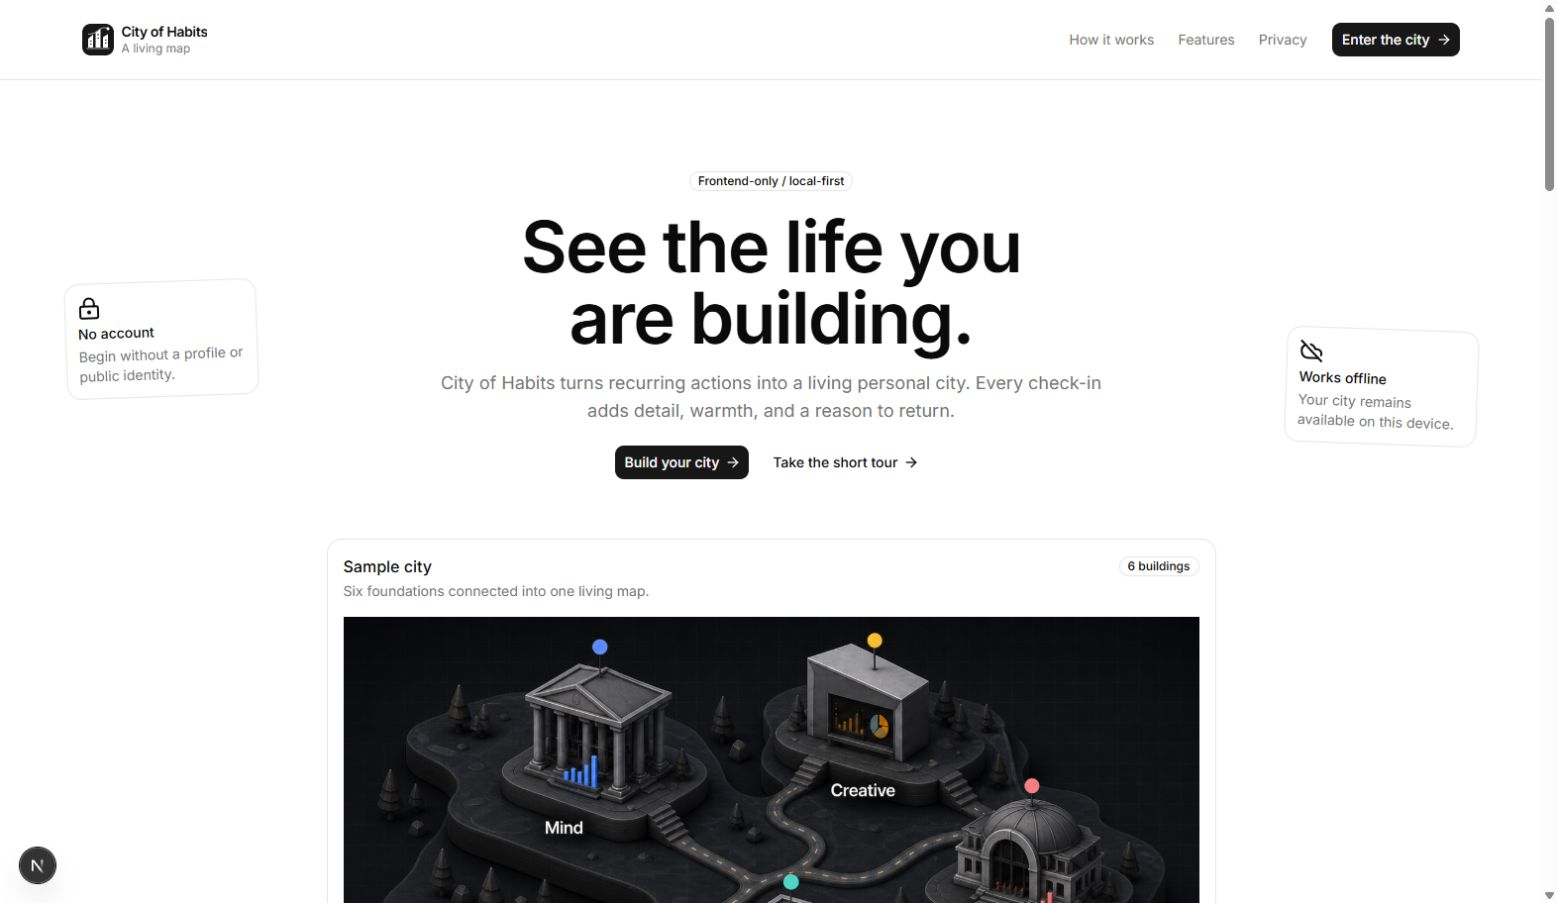
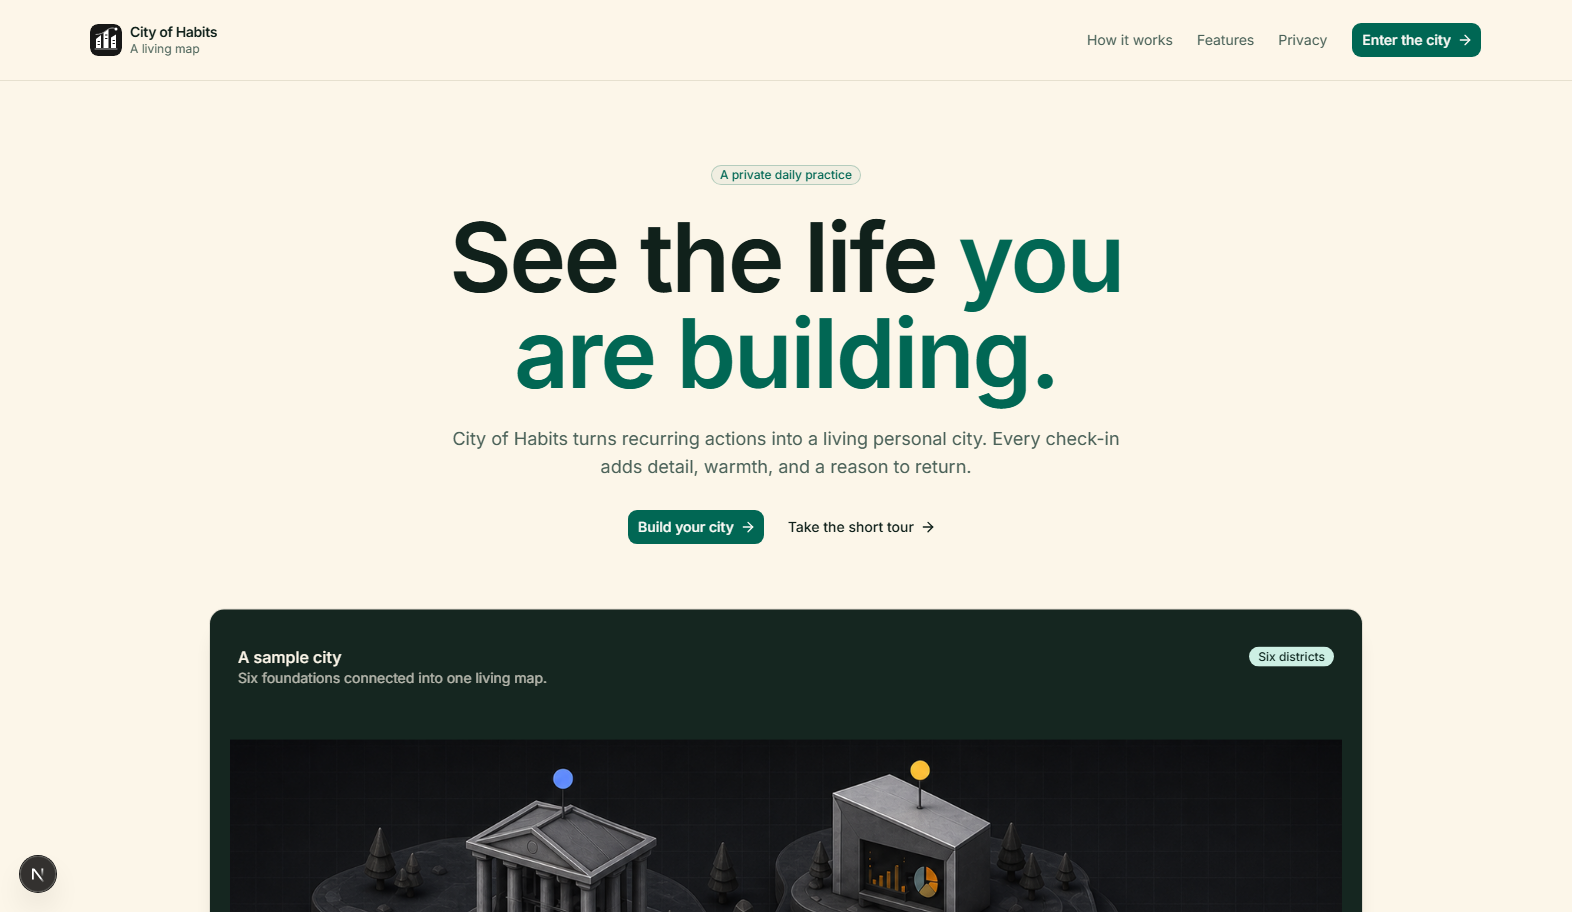
test: verify light-only landing redesign

diff --git a/tests/e2e/city.spec.ts b/tests/e2e/city.spec.ts
@@ -39,7 +39,7 @@ test("keeps the landing page crawlable and explains the privacy promise", async 
     page.getByRole("heading", { name: /see the life you are building/i }),
   ).toBeVisible();
   await expect(
-    page.getByRole("heading", { name: /your routines stay yours/i }),
+    page.getByRole("heading", { name: /the map is yours to keep/i }),
   ).toBeVisible();
   await expect(page.getByText("No account").first()).toBeVisible();
   await expect(page.getByText("Works offline").first()).toBeVisible();
@@ -47,6 +47,81 @@ test("keeps the landing page crawlable and explains the privacy promise", async 
   await expect(
     page.getByRole("link", { name: /build your city/i }),
   ).toHaveAttribute("href", /\/city\/?$/);
+  const cityLinks = page.locator('a[href^="/city"]');
+  expect(await cityLinks.count()).toBeGreaterThanOrEqual(3);
+});
+
+test("keeps the landing palette light and exposes landing viewport metadata", async ({
+  page,
+}) => {
+  const palettes = [] as Array<{
+    colorScheme: string;
+    backgroundColor: string;
+    foregroundColor: string;
+    primaryBackground: string;
+    themeColor: string;
+    landingBackground: string;
+  }>;
+
+  for (const colorScheme of ["light", "dark"] as const) {
+    await page.emulateMedia({ colorScheme });
+    await page.goto("/");
+
+    const landing = page.locator('[data-landing-theme="light"]');
+    await expect(landing).toBeVisible();
+    await expect(page.locator('meta[name="color-scheme"]')).toHaveAttribute(
+      "content",
+      "light",
+    );
+
+    const palette = await landing.evaluate((element) => {
+      const styles = getComputedStyle(element);
+      const primaryLink =
+        element.querySelector<HTMLAnchorElement>('a[href^="/city"]');
+      const primaryStyles = primaryLink
+        ? getComputedStyle(primaryLink)
+        : styles;
+      const themeMeta = Array.from(
+        document.querySelectorAll<HTMLMetaElement>('meta[name="theme-color"]'),
+      ).find((meta) => !meta.media);
+      const canvas = document.createElement("canvas");
+      canvas.width = 1;
+      canvas.height = 1;
+      const context = canvas.getContext("2d");
+      const normalizeColor = (value: string) => {
+        if (!context || !value) return "";
+        context.clearRect(0, 0, 1, 1);
+        context.fillStyle = value;
+        context.fillRect(0, 0, 1, 1);
+        return Array.from(context.getImageData(0, 0, 1, 1).data).join(",");
+      };
+
+      return {
+        colorScheme: styles.colorScheme,
+        backgroundColor: styles.backgroundColor,
+        foregroundColor: styles.color,
+        primaryBackground: primaryStyles.backgroundColor,
+        themeColor: normalizeColor(themeMeta?.content ?? ""),
+        landingBackground: normalizeColor(styles.backgroundColor),
+      };
+    });
+
+    expect(palette.colorScheme).toBe("light");
+    expect(palette.backgroundColor).not.toBe("rgba(0, 0, 0, 0)");
+    expect(palette.themeColor).toMatch(/^\d+,\d+,\d+,\d+$/);
+    const themeChannels = palette.themeColor.split(",").map(Number);
+    const landingChannels = palette.landingBackground.split(",").map(Number);
+    expect(
+      Math.max(
+        ...themeChannels
+          .slice(0, 3)
+          .map((channel, index) => Math.abs(channel - landingChannels[index])),
+      ),
+    ).toBeLessThanOrEqual(8);
+    palettes.push(palette);
+  }
+
+  expect(palettes[0]).toEqual(palettes[1]);
 });
 
 test("connects landing navigation to its sections with smooth scrolling", async ({
@@ -108,35 +183,73 @@ test("keeps content visible and scrolling immediate when reduced motion is reque
 test("keeps the landing composition inside the viewport", async ({ page }) => {
   for (const viewport of [
     { width: 360, height: 800 },
+    { width: 390, height: 844 },
     { width: 768, height: 900 },
     { width: 1440, height: 900 },
+    { width: 1572, height: 912 },
   ]) {
+    await page.emulateMedia({ colorScheme: "light" });
     await page.setViewportSize(viewport);
     await page.goto("/");
     await expect(
       page.getByRole("heading", { name: /see the life you are building/i }),
     ).toBeVisible();
 
-    const overflow = await page.evaluate(
-      () => document.documentElement.scrollWidth - window.innerWidth,
-    );
-    expect(overflow).toBeLessThanOrEqual(0);
+    const overflow = await page.evaluate(() => ({
+      document: document.documentElement.scrollWidth - window.innerWidth,
+      body: document.body.scrollWidth - document.body.clientWidth,
+    }));
+    expect(overflow.document).toBeLessThanOrEqual(0);
+    expect(overflow.body).toBeLessThanOrEqual(0);
   }
 
-  const resolvedBackgrounds: string[] = [];
+  const resolvedLandingPalettes: Array<{
+    background: string;
+    foreground: string;
+    primary: string;
+  }> = [];
 
   for (const colorScheme of ["light", "dark"] as const) {
     await page.emulateMedia({ colorScheme });
     await page.goto("/");
-    await expect(
-      page.getByRole("heading", { name: /see the life you are building/i }),
-    ).toBeVisible();
-    resolvedBackgrounds.push(
-      await page.evaluate(() => getComputedStyle(document.body).backgroundColor),
+    resolvedLandingPalettes.push(
+      await page.locator('[data-landing-theme="light"]').evaluate((element) => {
+        const styles = getComputedStyle(element);
+        const primary =
+          element.querySelector<HTMLAnchorElement>('a[href^="/city"]');
+        return {
+          background: styles.backgroundColor,
+          foreground: styles.color,
+          primary: primary ? getComputedStyle(primary).backgroundColor : "",
+        };
+      }),
     );
   }
 
-  expect(resolvedBackgrounds[0]).not.toBe(resolvedBackgrounds[1]);
+  expect(resolvedLandingPalettes[0]).toEqual(resolvedLandingPalettes[1]);
+});
+
+test("keeps application theming independent from the light-only landing page", async ({
+  page,
+}) => {
+  await page.evaluate(() => localStorage.removeItem("theme"));
+
+  await page.emulateMedia({ colorScheme: "dark" });
+  await page.goto("/city");
+  await expect(page.locator("html")).toHaveClass(/dark/);
+  await expect(page.locator('[data-landing-theme="light"]')).toHaveCount(0);
+  const darkApplicationBackground = await page.evaluate(
+    () => getComputedStyle(document.body).backgroundColor,
+  );
+
+  await page.emulateMedia({ colorScheme: "light" });
+  await page.goto("/city");
+  await expect(page.locator("html")).not.toHaveClass(/dark/);
+  const lightApplicationBackground = await page.evaluate(
+    () => getComputedStyle(document.body).backgroundColor,
+  );
+
+  expect(darkApplicationBackground).not.toBe(lightApplicationBackground);
 });
 
 test("keeps the application headers aligned across sidebar states and viewports", async ({
@@ -262,18 +375,16 @@ test("renders every public route without serious accessibility violations", asyn
             .first()
             .locator("[data-reveal]")
             .evaluateAll((elements) =>
-              elements.every(
-                (element) => {
-                  const bounds = element.getBoundingClientRect();
-                  const isInInitialViewport =
-                    bounds.top >= 0 && bounds.bottom <= window.innerHeight;
+              elements.every((element) => {
+                const bounds = element.getBoundingClientRect();
+                const isInInitialViewport =
+                  bounds.top >= 0 && bounds.bottom <= window.innerHeight;
 
-                  return (
-                    !isInInitialViewport ||
-                    getComputedStyle(element).opacity === "1"
-                  );
-                },
-              ),
+                return (
+                  !isInInitialViewport ||
+                  getComputedStyle(element).opacity === "1"
+                );
+              }),
             ),
         )
         .toBe(true);

diff --git a/design-qa.md b/design-qa.md
@@ -1,64 +1,60 @@
-# Landing Page Redesign Design QA
+# Sunlit Civic Landing Page Design QA
 
 ## Visual sources
 
-- Scoped follow-up source: browser Comment 1 marker screenshot supplied in the task, targeting the outer hero surface at a reported 1572 x 912 viewport.
-- Hero composition: `C:\Users\ALPRIN~1\AppData\Local\Temp\codex-clipboard-41af5fdd-98a6-4597-9f65-b6636813be51.png` (1024 x 768)
+- Hero composition and floating detail cards: `C:\Users\ALPRIN~1\AppData\Local\Temp\codex-clipboard-41af5fdd-98a6-4597-9f65-b6636813be51.png` (1024 x 768)
 - Product showcase and bento rhythm: `C:\Users\ALPRIN~1\AppData\Local\Temp\codex-clipboard-1919a792-969e-4c93-a20e-98f24c467e84.png` (1024 x 1843)
 - Repeated feature-card rhythm: `C:\Users\ALPRIN~1\AppData\Local\Temp\codex-clipboard-93b47ef8-923d-4414-beee-e9f20676afe7.png` (1024 x 1402)
 - Final CTA and visual footer: `C:\Users\ALPRIN~1\AppData\Local\Temp\codex-clipboard-357d2bed-b34a-4c1b-bd79-9ed321e10019.png` (1024 x 1352)
 
-The references were supplied as combined visual direction rather than a literal product clone. Their fictional pricing, integrations, testimonials, colors, and brand assets were intentionally excluded.
+The references were used as combined visual direction rather than literal product copies. Their fictional pricing, integrations, testimonials, and brand assets remain excluded.
 
 ## Implementation evidence
 
-- Desktop full page: `C:\Users\Al Prince\Documents\Products\City of Habits\outputs\landing-page-desktop.png` (1425 x 4573 rendered pixels)
-- Mobile full page: `C:\Users\Al Prince\Documents\Products\City of Habits\outputs\landing-page-mobile.png` (375 x 6074 rendered pixels)
+- Desktop full page: `C:\Users\Al Prince\Documents\Products\City of Habits\outputs\landing-page-desktop.png` (1440 x 5703 rendered pixels)
+- Mobile full page: `C:\Users\Al Prince\Documents\Products\City of Habits\outputs\landing-page-mobile.png` (390 x 6938 rendered pixels)
 - Borderless hero follow-up: `C:\Users\Al Prince\Documents\Products\City of Habits\outputs\landing-hero-borderless.png` (1572 x 912 rendered pixels)
-- Desktop CSS viewport: 1440 x 900
-- Mobile CSS viewport: 390 x 844
-- Capture density: 1x; the in-app browser excludes its scrollbar from the saved bitmap width.
-- Runtime state: local development build, light resolved system theme, reveal animations completed before capture.
+- CSS viewports: 1440 x 900 desktop, 390 x 844 mobile, and 1572 x 912 annotation follow-up.
+- Runtime state: light landing scope with reveal animations completed before full-page capture.
 
-## Comparison history
+## Visual direction and corrections
 
-### Pass 1: structure
+### Sunlit Civic system
 
-- Combined the centered framed hero and floating utility-card language from the first reference with the existing City of Habits sample-city artwork.
-- Reorganized the landing story into hero, four-step journey, bento features, local-first privacy, and final CTA/footer.
-- Preserved the existing Inter typography, Base Nova semantic colors, generated shadcn primitives, Lucide icons, system theme behavior, and `/city` conversion route.
+- Added a landing-scoped semantic palette: warm ivory canvas, deep green-ink text, verdant teal primary actions, pale teal surfaces, marigold emphasis, and restrained coral/blue/violet district signals.
+- Kept the sample city artwork as the visual anchor and reused its existing signal colors instead of adding new assets.
+- Preserved Inter, Base Nova shadcn primitives, Lucide icons, default radii, and semantic token composition.
 
-### Pass 2: visible corrections
+### Composition pass
 
-- The first desktop capture exposed a narrowed Motion wrapper that forced the hero heading into an overly tall column. The wrapper and header were expanded to their intended max-width and the unnecessary hero minimum height was removed.
-- The final CTA had the same intrinsic-width issue; its header now spans the designed content width and resolves to a balanced two-line desktop heading.
-- The compact CTA footer was changed to stack at mobile width so the City of Habits mark and local-first promise remain complete instead of truncating.
-- The final side-by-side comparison confirms the intended mappings: floating hero details, spacious centered section headings, four-card rhythm, asymmetric bento arrangement, and an icon-led closing composition.
+- Reframed the hero as a borderless, centered editorial introduction with the city preview as a dark visual stage and three overlapping local-first promise cards.
+- Added a six-district legend below the hero, a four-step journey grid, a 12-column asymmetric feature bento, a teal privacy band, and a marigold final CTA/footer.
+- Converted major landing titles to native semantic headings so the visual hierarchy is also available to assistive technology.
 
-### Pass 3: browser annotation follow-up
+### Responsive and accessibility pass
 
-- Comment 1 identified the outer hero Card ring and contrasting `bg-card` surface as unwanted framing.
-- The outer Card now uses `ring-0` and the semantic `bg-background` token. The nested sample-city Card and floating utility Cards keep their original elevation and boundaries.
-- Focused evidence at 1572 x 912 shows the hero blending into its parent page surface with no visible outer edge; no broader layout, typography, copy, asset, or interaction changes were introduced.
-- Computed browser evidence reports a zero-width ring shadow and zero horizontal overflow. No actionable P0, P1, or P2 findings remain.
+- Added `color-scheme: light` and landing-specific viewport metadata while leaving application theme preferences untouched.
+- Confirmed the landing palette is identical under light and dark system emulation; `/city` still resolves independently to light or dark.
+- Adjusted privacy copy to full-contrast foreground tokens after axe identified translucent text below the 4.5:1 threshold.
+- Added `w-full` to the final CTA header after the rendered check exposed intrinsic-width shrinkage that shifted the headline off-center.
 
 ## Responsive, theme, motion, and accessibility checks
 
-- Measured zero horizontal overflow at 360, 390, 768, and 1440 CSS pixels.
-- Confirmed the compact mobile header action, readable card stacking, uncropped sample-city preview, and complete mobile CTA footer.
-- Confirmed different resolved semantic backgrounds in light and dark system color schemes without adding theme-specific hardcoded colors.
-- Smooth anchor scrolling is active only for `prefers-reduced-motion: no-preference`; reduced-motion mode makes every reveal immediately visible and leaves no reveal animations running.
-- Verified navigation anchors, `/city` primary CTAs, the privacy promise, root metadata, and public-route accessibility.
-- Browser console inspection returned no warnings or errors.
-- Axe reported no serious or critical violations after the hero reached its final rendered state.
+- Measured zero document and body horizontal overflow at 360, 390, 768, 1440, and 1572 CSS pixels.
+- Confirmed the compact mobile header action, readable stacked cards, complete privacy band, and centered final CTA.
+- Confirmed landing `color-scheme` remains light and the semantic canvas/foreground/primary values are identical under light and dark system preferences.
+- Confirmed `/city` retains independent light/dark system behavior and saved theme support.
+- Confirmed smooth anchor scrolling is active only when reduced motion is not requested; reduced-motion mode makes every reveal immediately visible and leaves no reveal animations running.
+- Playwright axe checks reported no serious or critical violations across all public routes.
+- Browser console probes returned no warnings or page errors at desktop or mobile viewports.
 
 ## Verification
 
 - `pnpm lint` — passed
 - `pnpm typecheck` — passed
-- `pnpm test` — 22 passed
-- `pnpm build` — passed; 15 static pages generated
-- `pnpm test:e2e -- --workers=1` — 27 passed across Chromium, Firefox, and WebKit
+- `pnpm test` — 22 passed across 6 test files
+- `pnpm build` — passed; 15 static routes generated
+- `pnpm test:e2e -- --workers=1` — 33 passed across Chromium, Firefox, and WebKit
 
 ## Result
 
